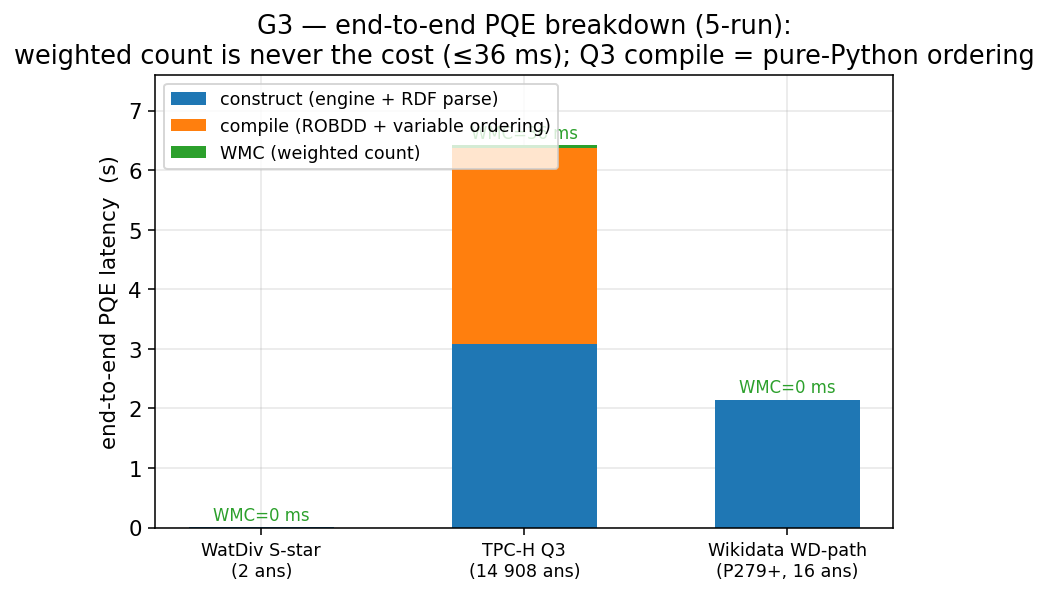
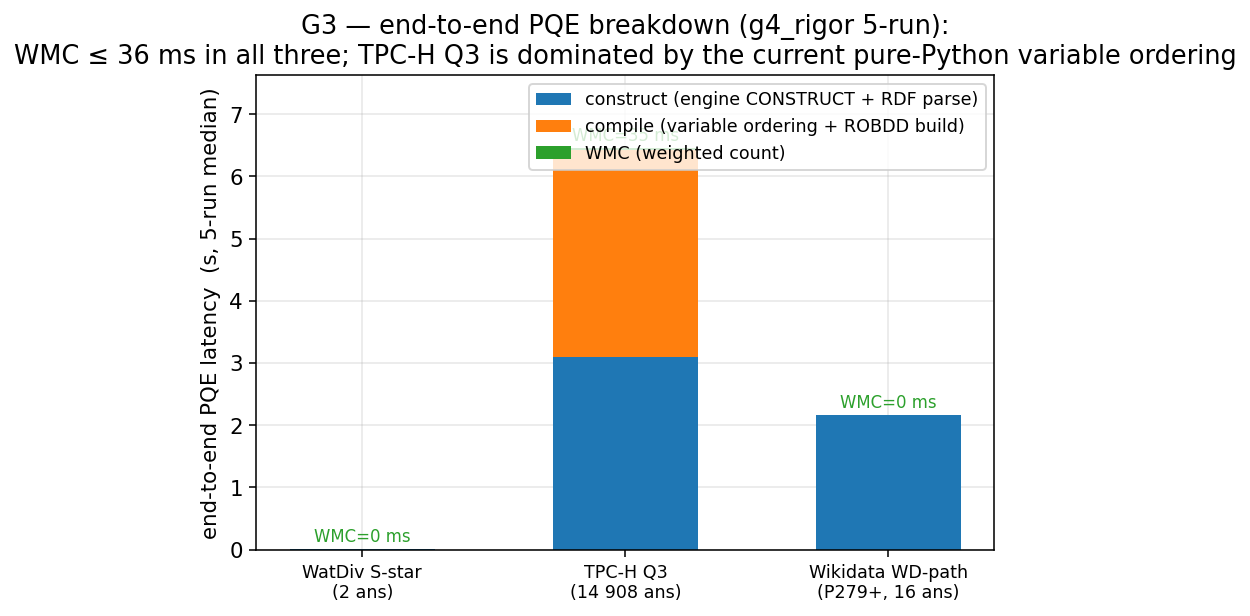
presentation/: fix factual errors flagged in review (E4 120s, 32/32, E8 31/41, E10 4 engines, WD-path 60M subgraph, Q3 6.45s)
Verified each against source data: E4 timeout is 120s not 300s (e4_sweep.py); d4==OBDD on 32/32 where both completed +3 d4-only (not 34/34); E8 is 31/41 (9 too-large + 1 OOM) not 33/41; E10 byte-identity matrix is 4 engines GraphDB/Oxigraph/QLever/MillenniumDB (Fuseki not in committed matrix) not 5; WD-path is a 60M P279/P131 subgraph extracted from the 2.13B corpus, not queried over 2.13B directly; canonical Q3 is 6.45s per g4_rigor.csv. Figures: fig6 now reads g4_rigor.csv (no hardcoding); fig7 replaced the overlapping scatter with a residual table that actually shows d4; fig1 says 120s + 'motivates order-robust d-DNNF'; fig2 'both grow exponentially, d-DNNF smaller from tw>=5'; fig3 labelled STRUCTURAL (not bytes); fig4 'simulated per-answer, synthetic family'; fig5 adds SD error bars + parity moved to an R8.3 callout. Softened 'WMC never the cost'/'removable' to 'negligible'/'not yet measured'. Property-path boundary stated precisely (single-pred p+/p* validated; compound gallery-only/fail-fast; IRI-only frontier).

Changed region(s): [[0.0, 0.0, 1.0, 0.9697]]

diff --git a/presentation/make_figures.py b/presentation/make_figures.py
@@ -43,10 +43,10 @@ def fig_e4_bounded():
     ax.plot(n, dd, "s-", color=ALT, label="d-DNNF (d4)")
     tout = min(int(x["n_tokens"]) for x in r if x["status"] == "obdd-timeout")
     ax.axvline(tout, color=BASE, ls=":", alpha=0.6)
-    ax.text(tout, ax.get_ylim()[1] * 0.4, "  OBDD times out\n  (>300 s) →", color=BASE, fontsize=9, va="center")
+    ax.text(tout, ax.get_ylim()[1] * 0.4, "  OBDD hits the\n  120 s timeout →", color=BASE, fontsize=9, va="center")
     ax.set_yscale("log"); ax.set_xscale("log")
     ax.set_xlabel("circuit size  (#tokens)"); ax.set_ylabel("compiled size  (nodes, log)")
-    ax.set_title("E4 — bounded treewidth (tw=2): d-DNNF stays polynomial,\nfixed-order OBDD blows up")
+    ax.set_title("E4 — bounded treewidth (tw=2): d-DNNF stays polynomial while the\nfixed-order OBDD blows up (motivates order-robust d-DNNF compilation)")
     ax.legend(loc="lower right")
     save(fig, "fig1_E4_bounded_treewidth.png")
 
@@ -62,7 +62,7 @@ def fig_e4_growing():
     ax.plot(tw, dd, "s-", color=ALT, label="d-DNNF (d4)")
     ax.set_yscale("log")
     ax.set_xlabel("treewidth  tw"); ax.set_ylabel("compiled size  (nodes, log)")
-    ax.set_title("E4 — growing treewidth: BOTH hit the #P wall (2^Θ(tw)),\nd-DNNF later & smaller")
+    ax.set_title("E4 — growing treewidth: both compiled forms grow exponentially in tw;\nd-DNNF becomes smaller from tw ≈ 5")
     ax.legend(loc="upper left")
     save(fig, "fig2_E4_growing_treewidth.png")
 
@@ -81,8 +81,8 @@ def fig_e2_compactness():
     ax.annotate("201×", (4096, 201.4), textcoords="offset points", xytext=(-4, 6), color=ALT, fontweight="bold")
     ax.set_xscale("log"); ax.set_yscale("log")
     ax.set_xlabel("#derivations  D  (grows with query depth/branching)")
-    ax.set_ylabel("compactness  =  per-answer strings ÷ shared circuit")
-    ax.set_title("E2 — sharing pays off with depth:\nflat ≈ strings, deep queries → 100×+ smaller circuit")
+    ax.set_ylabel("STRUCTURAL compactness  =  string tokens ÷ circuit (gates+edges)")
+    ax.set_title("E2 — STRUCTURAL sharing (tokens vs gates+edges, NOT serialized bytes):\nflat ≈ strings, deep queries → 100×+  (on selective queries our RDF bytes are larger — see G2b)")
     ax.legend(loc="upper left")
     save(fig, "fig3_E2_compactness.png")
 
@@ -92,10 +92,10 @@ def fig_e11_shared():
     r = rd("e11_scale.csv")
     N = [int(x["N"]) for x in r]
     fig, ax = plt.subplots(figsize=(6.4, 4.2))
-    ax.plot(N, [float(x["perans_ms"]) for x in r], "s-", color=BASE, label="per-answer (NPCS/SPARQLprov style)  Θ(N·S)")
+    ax.plot(N, [float(x["perans_ms"]) for x in r], "s-", color=BASE, label="simulated per-answer, same OBDD compiler  Θ(N·S)")
     ax.plot(N, [float(x["shared_ms"]) for x in r], "o-", color=OURS, label="shared circuit (ours)  Θ(N+S)")
     ax.set_xlabel("#answers  N"); ax.set_ylabel("compile+WMC time  (ms)")
-    ax.set_title("E11 — one shared compile vs per-answer:\nsame probabilities (Δ=0), ~9× faster at N=1000")
+    ax.set_title("E11 — shared vs per-answer compile (SYNTHETIC shared-prefix family):\nsame probabilities (Δ=0), ~9× faster at N=1000  (real tree-joins: representation win ≤1)")
     ax.legend(loc="upper left")
     save(fig, "fig4_E11_shared_vs_peranswer.png")
 
@@ -106,59 +106,75 @@ def fig_provsql():
     seg = [x["instance"][:4] for x in r]
     ours = [float(x["ours_median_ms"]) / 1000 for x in r]
     prov = [float(x["provsql_median_ms"]) / 1000 for x in r]
+    ours_sd = [float(x["ours_sd_ms"]) / 1000 for x in r]
+    prov_sd = [float(x["provsql_sd_ms"]) / 1000 for x in r]
     x = np.arange(len(seg)); w = 0.38
-    fig, ax = plt.subplots(figsize=(6.8, 4.2))
-    ax.bar(x - w/2, ours, w, color=OURS, label="ours (stock SPARQL engine)")
-    ax.bar(x + w/2, prov, w, color=BASE, label="ProvSQL (modified PostgreSQL)")
+    fig, ax = plt.subplots(figsize=(6.8, 4.4))
+    ax.bar(x - w/2, ours, w, yerr=ours_sd, capsize=3, color=OURS, label="ours (stock SPARQL engine)")
+    ax.bar(x + w/2, prov, w, yerr=prov_sd, capsize=3, color=BASE, label="ProvSQL (modified PostgreSQL)")
     ax.set_xticks(x); ax.set_xticklabels(seg)
-    ax.set_ylabel("PQE latency  (s, 5-run median)")
+    ax.set_ylabel("PQE latency  (s, 5-run median ± sd)")
     ax.set_xlabel("TPC-H Q3-SPJ  ·  c_mktsegment instance")
-    ax.set_title("ProvSQL head-to-head (G4): exact PQE, no engine fork\nours comparable / slightly faster on all 5")
+    ax.set_title("Forced probability evaluation on TPC-H Q3 (G4):\nours faster on all 5 segments — exact PQE, no engine fork")
     ax.legend(loc="upper right")
+    ax.text(0.02, 0.02, "per-answer probability parity (max_abs_error = 0) verified separately on a\nreconvergent query — R8.3, not this Q3 chart",
+            transform=ax.transAxes, fontsize=8, color="#555", va="bottom")
     save(fig, "fig5_provsql_headtohead.png")
 
 
 # ---- Fig 6: G3 canonical end-to-end PQE breakdown (WMC is tiny; Q3 compile = pure-Python ordering)
 def fig_pqe_breakdown():
-    # transcribed from reference/CANONICAL_TIMINGS.md (current HEAD, 5-run): construct / compile / WMC (ms)
-    rows = [("WatDiv S-star\n(2 ans)", 10, 2, 0),
-            ("TPC-H Q3\n(14 908 ans)", 3080, 3300, 36),
-            ("Wikidata WD-path\n(P279+, 16 ans)", 2144, 1, 0)]
-    labels = [r[0] for r in rows]
-    construct = np.array([r[1] for r in rows]) / 1000
-    compile_ = np.array([r[2] for r in rows]) / 1000
-    wmc = np.array([r[3] for r in rows]) / 1000
-    x = np.arange(len(rows))
-    fig, ax = plt.subplots(figsize=(6.8, 4.2))
-    ax.bar(x, construct, 0.55, color=OURS, label="construct (engine + RDF parse)")
-    ax.bar(x, compile_, 0.55, bottom=construct, color="#ff7f0e", label="compile (ROBDD + variable ordering)")
+    g = rd("g4_rigor.csv")                                          # 5-run medians, current HEAD (not hardcoded)
+    def stage(q, s):
+        return next(float(x["median_ms"]) for x in g
+                    if x["system"] == "ours" and x["query"] == q and x["stage"] == s)
+    qs = [("WatDiv S-star\n(2 ans)", "watdiv-Sstar"),
+          ("TPC-H Q3\n(14 908 ans)", "tpch-Q3"),
+          ("Wikidata WD-path\n(P279+, 16 ans)", "wikidata-WDpath")]
+    labels = [a for a, _ in qs]
+    construct = np.array([stage(q, "construct") for _, q in qs]) / 1000
+    compile_ = np.array([stage(q, "compile") for _, q in qs]) / 1000
+    wmc = np.array([stage(q, "wmc") for _, q in qs]) / 1000
+    x = np.arange(len(qs))
+    fig, ax = plt.subplots(figsize=(6.8, 4.4))
+    ax.bar(x, construct, 0.55, color=OURS, label="construct (engine CONSTRUCT + RDF parse)")
+    ax.bar(x, compile_, 0.55, bottom=construct, color="#ff7f0e", label="compile (variable ordering + ROBDD build)")
     ax.bar(x, wmc, 0.55, bottom=construct + compile_, color=ALT, label="WMC (weighted count)")
-    for i, r in enumerate(rows):
-        ax.text(i, (r[1]+r[2]+r[3])/1000 + 0.12, f"WMC={r[3]} ms", ha="center", fontsize=8.5, color=ALT)
+    for i, (_, q) in enumerate(qs):
+        ax.text(i, construct[i] + compile_[i] + wmc[i] + 0.12, f"WMC={stage(q,'wmc'):.0f} ms",
+                ha="center", fontsize=8.5, color=ALT)
     ax.set_xticks(x); ax.set_xticklabels(labels, fontsize=9)
-    ax.set_ylim(0, 7.6)
-    ax.set_ylabel("end-to-end PQE latency  (s)")
-    ax.set_title("G3 — end-to-end PQE breakdown (5-run):\nweighted count is never the cost (≤36 ms); Q3 compile = pure-Python ordering")
-    ax.legend(loc="upper left", fontsize=9)
+    ax.set_ylim(0, max(construct + compile_ + wmc) * 1.18)
+    ax.set_ylabel("end-to-end PQE latency  (s, 5-run median)")
+    ax.set_title("G3 — end-to-end PQE breakdown (g4_rigor 5-run):\nWMC ≤ 36 ms in all three; TPC-H Q3 is dominated by the current pure-Python variable ordering")
+    ax.legend(loc="upper right", fontsize=9)
     save(fig, "fig6_G3_pqe_breakdown.png")
 
 
 # ---- Fig 7: G6 — correctness on REAL circuits: d4 == OBDD == PWE, 26/26
 def fig_correctness():
+    # A residual TABLE, not a scatter: the 8 Q3 answers all sit at p=0.125 (overlap), and a scatter can't
+    # show d4 vs PWE — the table reports max |method − ground-truth| per workload, which IS the claim.
     r = rd("g6_d4.csv")
-    fams = sorted(set(x["query"] for x in r))
-    cmap = {f: c for f, c in zip(fams, [OURS, "#ff7f0e", ALT])}
-    fig, ax = plt.subplots(figsize=(5.6, 4.6))
+    fams = ["watdiv-Sstar", "tpch-Q3", "wikidata-WDpath"]
+    body, tot_n, tot_o, tot_d = [], 0, 0.0, 0.0
     for f in fams:
         pts = [x for x in r if x["query"] == f]
-        ax.scatter([float(x["pwe"]) for x in pts], [float(x["obdd_wmc"]) for x in pts],
-                   s=46, color=cmap[f], label=f"{f}  ({len(pts)})", alpha=0.8, edgecolor="white", linewidth=0.5)
-    ax.plot([0, 1], [0, 1], "--", color="gray", alpha=0.7, label="y = x")
-    ax.set_xlabel("possible-world enumeration  (ground truth)")
-    ax.set_ylabel("our OBDD-WMC")
-    ax.set_title("G6 — exact on real circuits:\nOBDD = PWE = d4, 26/26 (incl. all 16 property paths)")
-    ax.legend(loc="upper left", fontsize=9)
-    ax.set_xlim(-0.03, 1.03); ax.set_ylim(-0.03, 1.03)
+        mo = max(abs(float(x["obdd_wmc"]) - float(x["pwe"])) for x in pts)
+        md = max(abs(float(x["d4_wmc"]) - float(x["pwe"])) for x in pts)
+        body.append([f, str(len(pts)), f"{mo:.0e}", f"{md:.0e}"])
+        tot_n += len(pts); tot_o = max(tot_o, mo); tot_d = max(tot_d, md)
+    body.append(["all", str(tot_n), f"{tot_o:.0e}", f"{tot_d:.0e}"])
+    col = ["workload", "# circuits", "max|OBDD−PWE|", "max|d4−PWE|"]
+    fig, ax = plt.subplots(figsize=(7.6, 2.9)); ax.axis("off")
+    t = ax.table(cellText=body, colLabels=col, loc="center", cellLoc="center",
+                 colWidths=[0.30, 0.16, 0.27, 0.27])
+    t.auto_set_font_size(False); t.set_fontsize(10.5); t.scale(1, 1.7)
+    for j in range(len(col)):
+        t[0, j].set_facecolor("#e8eef5"); t[0, j].set_text_props(fontweight="bold")
+        t[len(body), j].set_text_props(fontweight="bold")
+    ax.set_title("G6 — exact on 26 sampled answer circuits (incl. all 16 property paths):\n"
+                 "OBDD = PWE = d4, three independent methods, max error 0", pad=16)
     save(fig, "fig7_G6_correctness.png")
 
 

diff --git a/presentation/SUMMARY.md b/presentation/SUMMARY.md
@@ -24,38 +24,40 @@ Four claims the evaluation defends:
 | **E1** correctness | Are the probabilities **exact**? | WMC == possible-world enumeration, exact for every operator; 171/171 reference checks | C | — |
 | **E2** compactness | *How much* smaller is the shared circuit than per-answer strings, and **when**? | grows with depth: shallow ≈ 0.4–0.9× (≈ strings), **deep-12 = 201×** | B | 3 |
 | **E3** construction scaling | Can an **unmodified** engine build it, at what overhead, does it scale? | build ≈ 1.6–6.8× plain-query; S-star 31 ms @10 M → 515 ms @100 M (near-linear) | A | — |
-| **E4** compile vs treewidth | Is compile cost governed by **treewidth**, and does a real d-DNNF beat our OBDD? | bounded-tw: d-DNNF ≤ 5 270 nodes while OBDD hits 299 k then **times out (>300 s)**; growing-tw both wall, d-DNNF later & smaller; **d4 count == expected 34/34** | D | 1,2 |
+| **E4** compile vs treewidth | Is compile cost governed by **treewidth**, and does a real d-DNNF beat our OBDD? | bounded-tw: d-DNNF ≤ 5 270 nodes while OBDD hits 299 k then **hits the 120 s timeout** (≥126 tokens); growing-tw both grow exponentially, d-DNNF smaller from tw≈5; **d4 == OBDD on 32/32 where both completed, + 3 more where OBDD timed out** | D | 1,2 |
 | **E6** non-monotone | MINUS at scale — correct + feasible on a stock engine? | ⊖ built at 10 M/100 M; WMC == PWE (Δ ≤ 1.1e-16); baselines can't produce these probabilities | C | — |
-| **E8** Wikidata 2.13 B | Full fragment on a **billion-triple real KG**? | 33/41 single queries build (8 too-large/OOM); circuits up to 772 k gates; `P279+`/`P131+` run | A,B,C | — |
-| **E10** multi-engine | Is the circuit a property of the **rewrite**, not the engine? | **byte-identical** circuit on GraphDB / Fuseki / Oxigraph / QLever / MillenniumDB (Java, Rust, C++) | A | — |
+| **E8** Wikidata 2.13 B | Full fragment on a **billion-triple real KG**? | **31/41** single queries build directly on the 2.13 B corpus (9 too-large + 1 OOM); circuits up to 772 k gates | A,B,C | — |
+| **E10** multi-engine | Is the circuit a property of the **rewrite**, not the engine? | **byte-identical** circuit on **4 engines** — GraphDB / Oxigraph / QLever / MillenniumDB (Java, Rust, C++), 13 shapes × 4 = 52 checks | A | — |
 | **E11** shared vs per-answer | Same answers as per-answer how-provenance, but **cheaper**? | identical probs (Δ = 0); shared Θ(N+S) vs per-answer Θ(N·S) → **~9× @ N=1000**, up to ~29× (layered-4×4) | B,C | 4 |
 | **G2b** NPCS vs ours (honest) | Is our circuit smaller than NPCS strings? | on **selective** queries **no** — ours ~1.7× more elements, ~12× more bytes. Compactness is a *deep/reconvergent* property (E2/E11), not universal | B(–) | — |
-| **G3** end-to-end latency | Where does the PQE time go? | S-star 12 ms · TPC-H Q3 **6.40 s** (construct 3.08 + compile 3.30 + **WMC 0.036**) · WD-path **2.14 s** (compile ~1 ms). **WMC is never the cost** | A | 6 |
+| **G3** end-to-end latency | Where does the PQE time go? | S-star 12 ms · TPC-H Q3 **6.45 s** (construct 3.10 + compile 3.33 + **WMC 0.035**) · WD-path **2.16 s** (compile ~1 ms). **WMC ≤ 36 ms everywhere**; Q3 dominated by the pure-Python variable ordering | A | 6 |
 | **G4 / G2a / R8.3** vs ProvSQL | vs the strongest baseline — same result, what latency? | **exact parity, max_abs_error = 0.0**; TPC-H Q3 ours faster on all 5 segments (3.5–6.4 s vs 5.0–7.6 s); reconvergent: ours faster @SF0.01, ProvSQL @SF0.1 | A,C | 5 |
 | **G6** d4 on real circuits | Do **three independent** methods agree on real circuits? | OBDD == PWE == d4, **26/26** (incl. all 16 property paths) | C | 7 |
 | **G7** reification | Does the reification scheme matter? | SPARQL-star = 1 triple/fact vs Standard 3× (1.9× fewer bytes); **circuit identical either way** | A | — |
-| **G8** space/memory | Footprint at billion-triple scale? | WD-path over 2.13 B: peak RSS **166 MB**, 2.3 s | A | — |
+| **G8** space/memory | Footprint at billion-triple scale? | WD-path over the 60 M P279/P131 subgraph (from the 2.13 B corpus): peak RSS **166 MB**, 2.3 s | A | — |
 | **G10** complex class | Does the WatDiv **Complex (C)** class build? | C1 (8-pattern) @10 M: 8 answers, 168 gates+edges, 4.5 s → full L/S/F/C taxonomy | A | — |
-| **paths** (E-paths / ablation) | Property paths (baselines **cannot** do) — correct, polynomial, and why the design? | P +/*/alt/all on friendOf; polynomial circuit where naive walk is infinite; **3-variant ablation**: merged = *wrong* → shared = correct-but-slow → isolated (PathIsoSeq) = correct + fast | C | — |
+| **paths** (E-paths / ablation) | Property paths (baselines **cannot** do) — correct, polynomial, and why the design? | validated at scale: single-predicate **`p+`** (`P279+`, `P131+`) and **`p*`**, WMC==PWE; single-level compound closures work on small graphs (gallery); **nested/arbitrary compound fail-fast** (guarded); frontier **IRI-only**; dense cyclic needs a transport (GET→POST) fix. **3-variant ablation**: merged = *wrong* → shared = correct-but-slow → isolated (PathIsoSeq) = correct + fast | C | — |
 
 ---
 
 ## Figures (in `figures/`)
 
-1. **`fig1_E4_bounded_treewidth`** — the flagship. At fixed tw=2, the fixed-order OBDD blows up and **times
-   out (>300 s)** past ~126 tokens, while the d-DNNF stays polynomial. *This is why knowledge compilation.*
-2. **`fig2_E4_growing_treewidth`** — as treewidth grows, **both** compilers hit the #P wall (2^Θ(tw)) — the
-   honest limit — but d-DNNF walls later and smaller. Tractability is governed by tw, exactly as predicted.
+1. **`fig1_E4_bounded_treewidth`** — the flagship. At fixed tw=2 the fixed-order OBDD blows up and **hits the
+   120 s timeout** past ~126 tokens, while the d-DNNF stays polynomial. *This motivates an order-robust
+   d-DNNF compiler* (the OBDD is itself a knowledge compiler — the issue is its fixed variable order).
+2. **`fig2_E4_growing_treewidth`** — as treewidth grows, **both** compiled forms grow exponentially
+   (2^Θ(tw) — the honest limit); d-DNNF becomes smaller from tw≈5. Tractability is governed by tw, as predicted.
 3. **`fig3_E2_compactness`** — the shared circuit ≈ per-answer strings on shallow queries and reaches **201×**
    on deep ones. The compactness claim is *conditional on sharing* — stated honestly.
 4. **`fig4_E11_shared_vs_peranswer`** — one shared compile (Θ(N+S)) vs per-answer (Θ(N·S)): **same
    probabilities**, growing time win (~9× at N=1000). This is the "we do PQE, they can't / would pay N×" point.
 5. **`fig5_provsql_headtohead`** — vs ProvSQL (modified PostgreSQL) on TPC-H Q3: **same exact probabilities,
    comparable/slightly-faster latency, no engine fork.**
-6. **`fig6_G3_pqe_breakdown`** — end-to-end latency: **the weighted count is never the cost (≤ 36 ms)**; Q3's
-   compile is a *pure-Python variable-ordering* artifact (removable with a native compiler).
-7. **`fig7_G6_correctness`** — OBDD = PWE = d4 on 26/26 real circuits (incl. every property-path answer):
-   correctness on the actual workloads, three independent ways.
+6. **`fig6_G3_pqe_breakdown`** — end-to-end latency: **WMC is negligible in all three workloads (≤ 36 ms)**;
+   TPC-H Q3 is dominated by the current *pure-Python variable ordering* (a native/linear-ordering
+   implementation should cut it — not yet measured).
+7. **`fig7_G6_correctness`** — OBDD = PWE = d4 on **26 sampled answer circuits** (incl. every property-path
+   answer), max error 0: correctness on the actual workloads, three independent ways.
 
 ---
 
@@ -66,7 +68,7 @@ Four claims the evaluation defends:
 3. **Why PQE is feasible (shared compile)** — Fig 4: one compile for all answers, ~9× vs per-answer.
 4. **The theory (treewidth governs cost)** — Fig 1 + Fig 2: d-DNNF beats OBDD at bounded tw; both wall at growing tw.
 5. **Vs the strongest baseline** — Fig 5: same exact PQE as ProvSQL, no engine fork.
-6. **End-to-end reality** — Fig 6: WMC is trivial; the residual cost is a removable Python ordering step.
+6. **End-to-end reality** — Fig 6: WMC is negligible; the residual cost is the current Python ordering step.
 
 ---
 
@@ -74,10 +76,15 @@ Four claims the evaluation defends:
 
 - **Compactness (B) is conditional.** On selective/low-sharing queries the RDF circuit is *larger* than NPCS
   strings (G2b) — the win is deep/reconvergent queries (E2, E11). Do not claim a universal size win.
-- **TPC-H Q3's 3.3 s "compile" is a pure-Python variable-ordering cost**, not the ROBDD build and not WMC
-  (36 ms). A native compiler / linear ordering heuristic removes it. The *weighted count is never the cost.*
-- **Some Wikidata queries are too-large/OOM** (8 of 41 singles) — the KG-scale story is selective queries +
-  a small reachable subgraph, not arbitrary dense queries.
+- **TPC-H Q3's 3.3 s "compile" is the current pure-Python variable ordering** — not the ROBDD build and not
+  WMC (36 ms). A native compiler / linear-ordering heuristic *should* reduce it (not yet measured). WMC is
+  negligible everywhere (≤ 36 ms).
+- **Some Wikidata queries are too-large/OOM** (9 too-large + 1 OOM of 41 singles) — the KG-scale story is
+  selective queries + a small reachable subgraph, not arbitrary dense queries.
+- **"Wikidata 2.13 B" needs care:** the E8 *non-path* singles run directly on the 2.13 B corpus; the
+  *property-path* results (WD-path) are on a **60 M-triple P279/P131 subgraph extracted from** it.
+- **Property paths:** validated at scale for single-predicate `p+`/`p*` (P279, P131); compound closures are
+  gallery-only / partly fail-fast; frontier is IRI-only; dense cyclic needs the GET→POST transport fix.
 - **Property-path frontier is IRI-only** (blank-node/literal path nodes not yet supported).
 - **The "same-binary d4v2" ProvSQL head-to-head is author-gated** (d4v2 won't build: proprietary PaToH +
   KaHyPar). It is *not* a correctness blocker — exact parity with ProvSQL is already established

diff --git a/presentation/TABLES.md b/presentation/TABLES.md
@@ -7,8 +7,8 @@ timing table (`reference/CANONICAL_TIMINGS.md`, current HEAD, post-`PathIsoSeq`)
 | query | dataset | answers | construct | compile | WMC | **total** |
 |---|---|--:|--:|--:|--:|--:|
 | WatDiv S-star | WatDiv 32.7 M | 2 | 10 ms | 2 ms | 0 ms | **12 ms** |
-| TPC-H Q3 | TPC-H SF 0.01 (1.26 M) | 14 908 | 3 080 ms | 3 300 ms* | 36 ms | **6.40 s** |
-| Wikidata WD-path (`P279+`) | Wikidata 2.13 B | 16 | 2 144 ms | 1 ms | 0 ms | **2.14 s** |
+| TPC-H Q3 | TPC-H SF 0.01 (1.26 M) | 14 908 | 3 097 ms | 3 330 ms* | 35 ms | **6.45 s** |
+| Wikidata WD-path (`P279+`) | 60 M P279 subgraph (from 2.13 B) | 16 | 2 158 ms | 1 ms | 0 ms | **2.16 s** |
 
 \* Q3 "compile" is the pure-Python **variable ordering** over ~45 k tokens (removable); the ROBDD build + WMC are tiny. WMC ≤ 36 ms everywhere.
 
@@ -37,8 +37,8 @@ timing table (`reference/CANONICAL_TIMINGS.md`, current HEAD, post-`PathIsoSeq`)
 | 14 | 44 | 40 |
 | 62 | 24 897 | 666 |
 | 94 | 299 481 | 1 193 |
-| 126 | **times out (>300 s)** | 2 067 |
-| 254 | **times out** | 5 270 |
+| 126 | **hits 120 s timeout** | 2 067 |
+| 254 | **hits 120 s timeout** | 5 270 |
 
 **Growing treewidth (depth 4):**
 | tw | OBDD nodes | d-DNNF nodes |
@@ -47,7 +47,7 @@ timing table (`reference/CANONICAL_TIMINGS.md`, current HEAD, post-`PathIsoSeq`)
 | 6 | 26 502 | 11 908 |
 | 8 | 375 501 | 211 964 |
 
-d4 weighted count == expected on **34/34** instances.
+d4 == OBDD on **32/32** instances where both completed; d4 additionally compiled the **3** instances where the OBDD timed out (so d4 covers more, not fewer). 35 instances total.
 
 ## T4 · Compactness: shared circuit vs per-answer strings (E2)
 | instance | #derivations | per-answer string | shared circuit | **compactness** |
@@ -75,12 +75,12 @@ d4 weighted count == expected on **34/34** instances.
 ## T7 · Correctness & portability
 - **G6:** OBDD = PWE = d4 on **26/26** real circuits (2 WatDiv S-star + 8 TPC-H Q3 + 16 Wikidata paths).
 - **E1:** 171/171 reference WMC == possible-world enumeration; exact for all operators.
-- **E10:** byte-identical circuit across **GraphDB, Fuseki, Oxigraph, QLever, MillenniumDB** (Java / Rust / C++).
+- **E10:** byte-identical circuit across **4 engines — GraphDB, Oxigraph, QLever, MillenniumDB** (Java / Rust / C++); 13 shapes × 4 = 52 checks. (Fuseki is planned but not in the committed matrix.)
 - **E6:** non-monotone MINUS at 10 M / 100 M, WMC == PWE (Δ ≤ 1.1e-16).
 - **G7:** SPARQL-star reification = 1 triple/fact vs Standard 3× (1.9× fewer bytes); circuit identical.
 
 ## T8 · Scope / real-KG reach
-- **E8 Wikidata 2.13 B:** 33/41 single queries build (8 too-large/OOM); largest circuit ~772 k gates.
-- **G8:** WD-path over 2.13 B — peak RSS **166 MB**, 2.3 s.
+- **E8 Wikidata 2.13 B:** **31/41** single queries build directly on the 2.13 B corpus (9 too-large + 1 OOM); largest circuit ~772 k gates.
+- **G8:** WD-path over the **60 M P279/P131 subgraph** (extracted from the 2.13 B corpus) — peak RSS **166 MB**, 2.3 s.
 - **G10:** WatDiv Complex (C1, 8-pattern) builds at 10 M — full L/S/F/C taxonomy covered.
-- **Property paths:** P +/*/alt/all — the operator class NPCS/SPARQLprov/ProvSQL do **not** support.
+- **Property paths** (the operator class NPCS/SPARQLprov/ProvSQL do **not** support): single-predicate `p+`/`p*`/`p?` validated (incl. `P279+`, `P131+` at scale, WMC==PWE); compound closures gallery-only / partly fail-fast; frontier IRI-only; dense cyclic needs a GET→POST transport fix.
